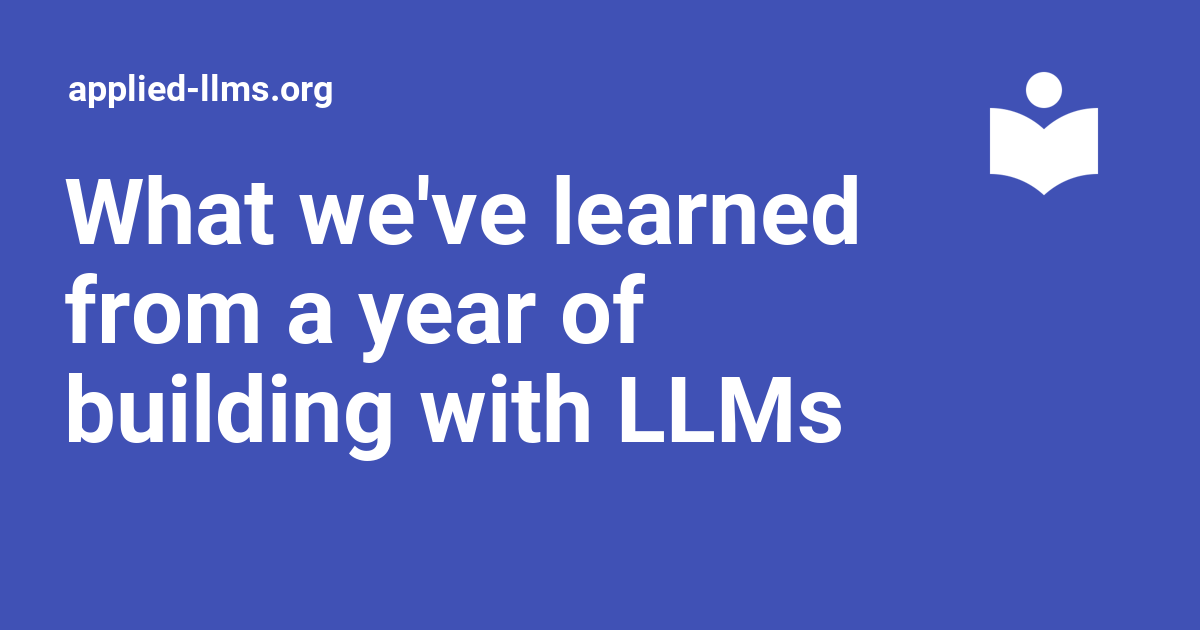
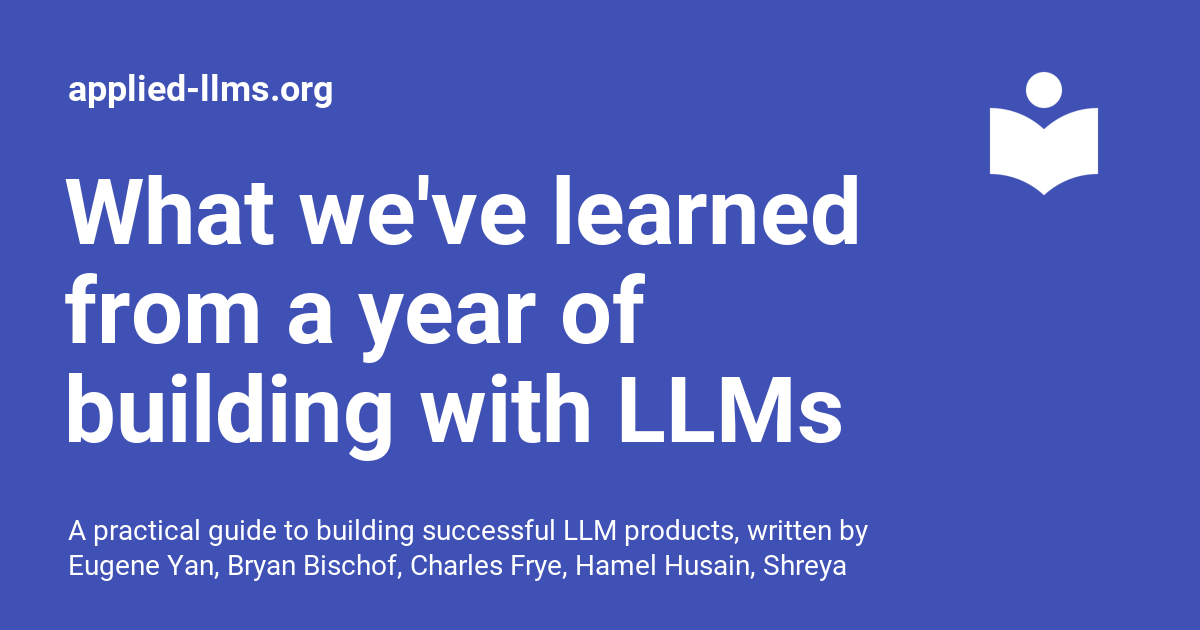
Built site for gh-pages

Changed region(s): [[0.0617, 0.8143, 0.74, 0.9349]]

diff --git a/index.html b/index.html
@@ -13,6 +13,7 @@
 <meta name="author" content="Shreya Shankar">
 <meta name="author" content="Jason Liu">
 <meta name="dcterms.date" content="2023-06-08">
+<meta name="description" content="A practical guide to building successful LLM products, written by Eugene Yan, Bryan Bischof, Charles Frye, Hamel Husain, Shreya Shankar, and Jason Liu.">
 
 <title>Applied LLMs - What we’ve learned from a year of building with LLMs</title>
 <style>
@@ -113,7 +114,7 @@ pre > code.sourceCode > span > a:first-child::before { text-decoration: underlin
 
 <link rel="stylesheet" href="styles.css">
 <meta property="og:title" content="Applied LLMs - What we’ve learned from a year of building with LLMs">
-<meta property="og:description" content="">
+<meta property="og:description" content="A practical guide to building successful LLM products, written by Eugene Yan, Bryan Bischof, Charles Frye, Hamel Husain, Shreya Shankar, and Jason Liu.">
 <meta property="og:image" content="https://applied-llms.org/images/mkdocs_social_card.png">
 <meta property="og:site_name" content="Applied LLMs">
 <meta property="og:image:height" content="630">
@@ -246,6 +247,11 @@ pre > code.sourceCode > span > a:first-child::before { text-decoration: underlin
 <h1 class="title">What we’ve learned from a year of building with LLMs</h1>
 </div>
 
+<div>
+  <div class="description">
+    A practical guide to building successful LLM products, written by Eugene Yan, Bryan Bischof, Charles Frye, Hamel Husain, Shreya Shankar, and Jason Liu.
+  </div>
+</div>
 
 
 <div class="quarto-title-meta">
